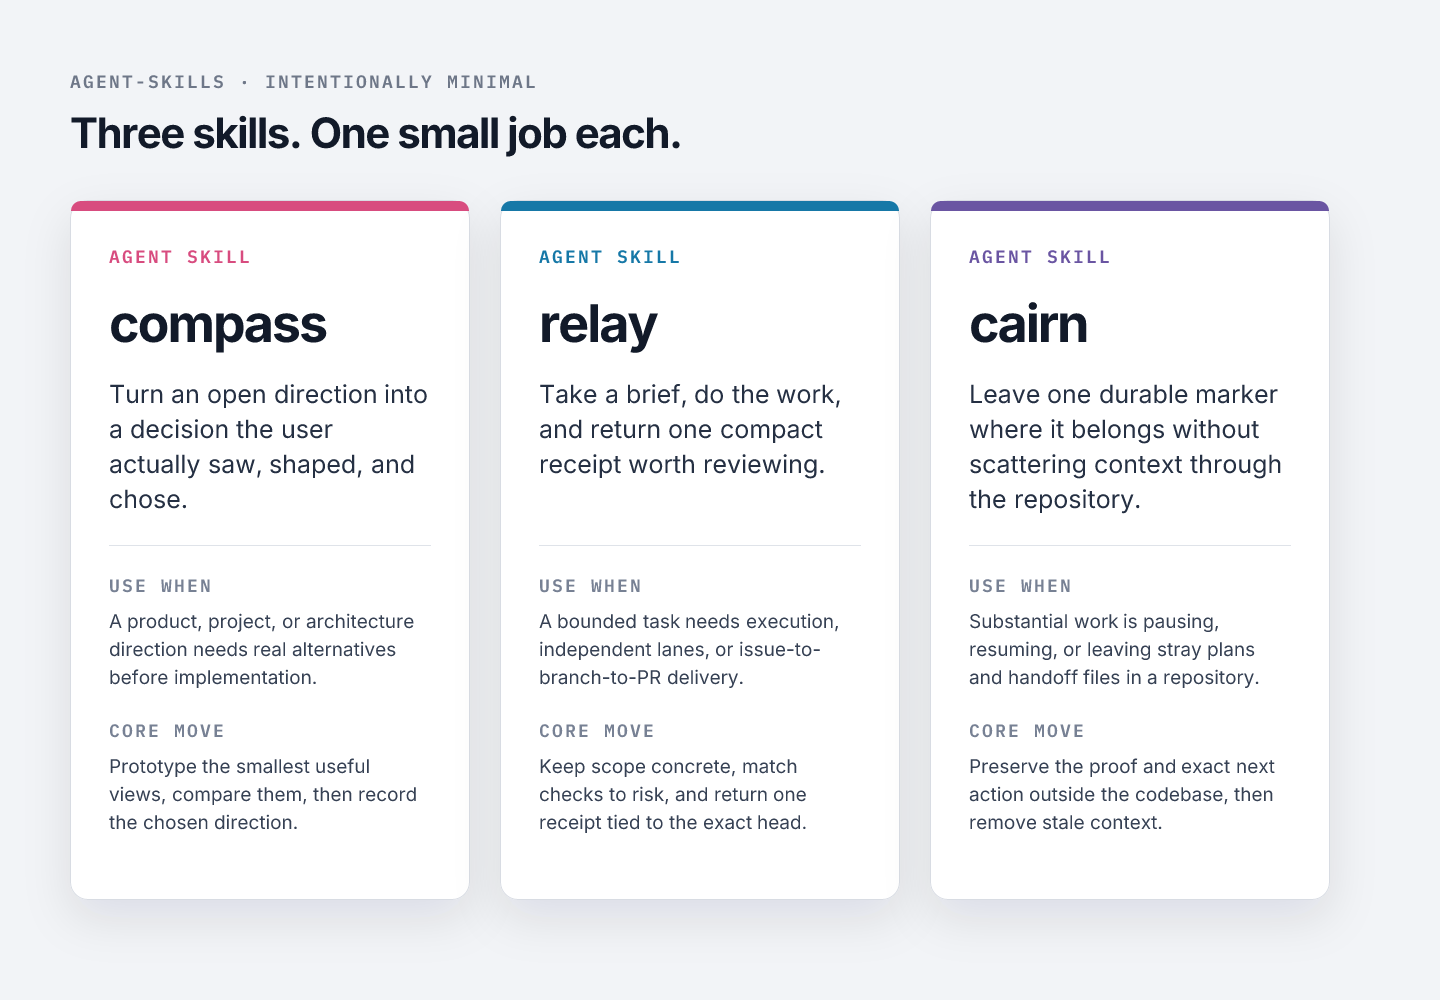
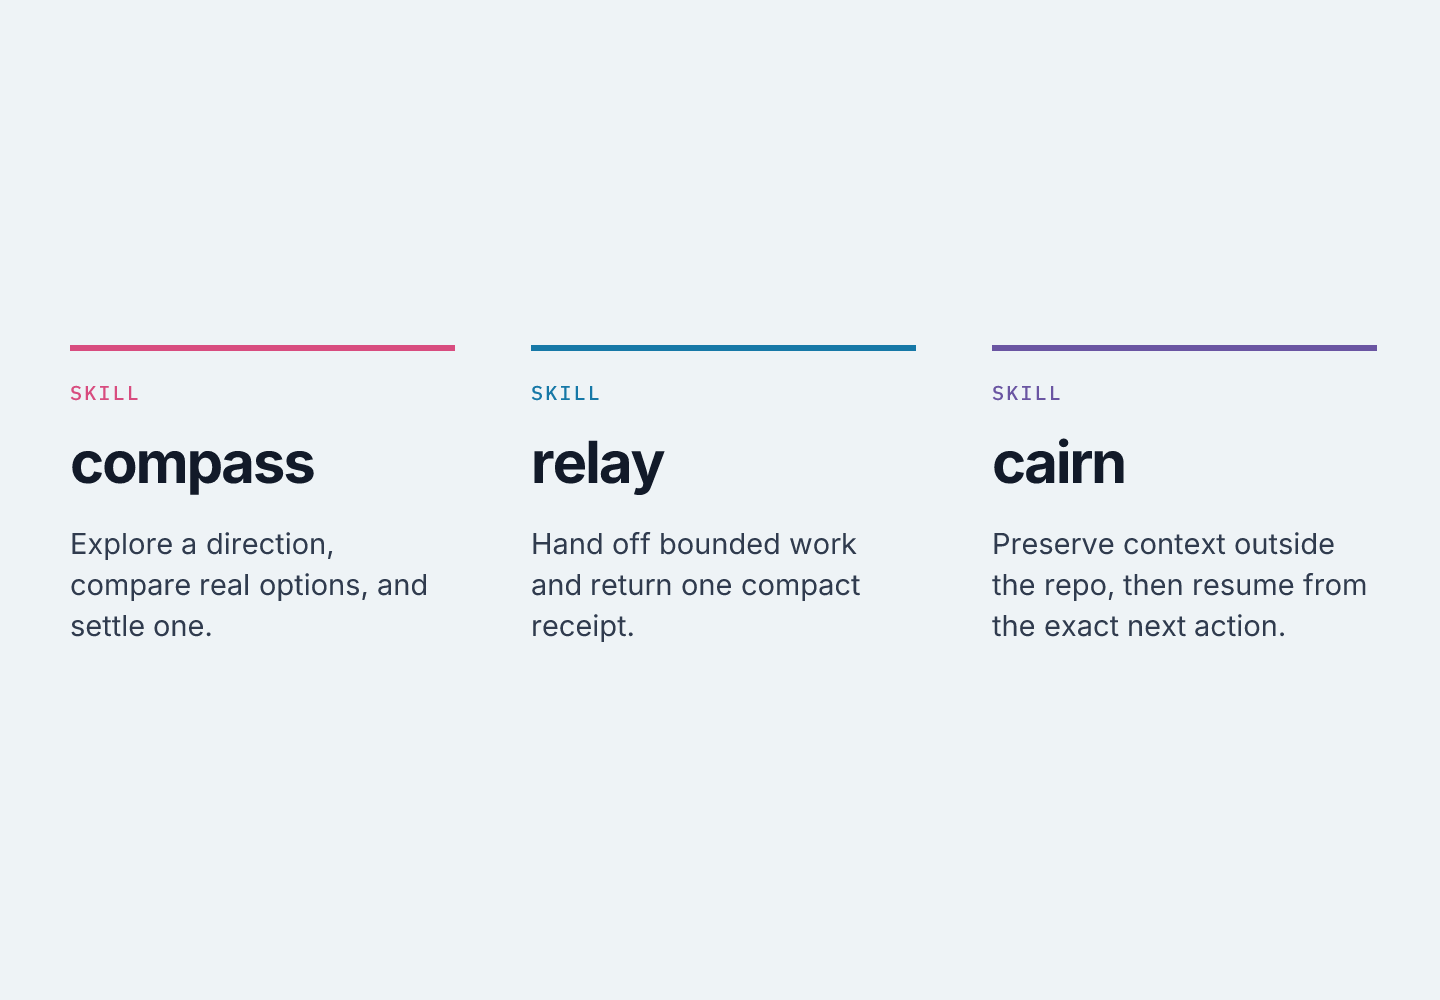
[style]: simplify agent skills overview

diff --git a/src/data/catalog.ts b/src/data/catalog.ts
@@ -105,7 +105,7 @@ export const CATALOG: Project[] = CatalogProjectSchema.array().parse([
     shots: [
       { kind: 'image', src: `${SHOTS}/agent-skills/decision-shelf.webp`, caption: 'the decision shelf: records that outlive sessions' },
       { kind: 'image', src: `${SHOTS}/agent-skills/delivery.webp`, caption: 'delivery: checks and an evidence-bound receipt' },
-      { kind: 'image', src: `${SHOTS}/agent-skills/skills-overview.png`, caption: 'compass, relay, and cairn: one clear job each' },
+      { kind: 'image', src: `${SHOTS}/agent-skills/skills-overview.png`, caption: 'compass · relay · cairn' },
       { kind: 'image', src: `${SHOTS}/agent-skills/cli-commands.png`, caption: 'decision-shelf help: commands grouped by purpose' },
       { kind: 'image', src: `${SHOTS}/agent-skills/storage-locations.png`, caption: 'decision-shelf path: durable state outside the repo' },
     ],
